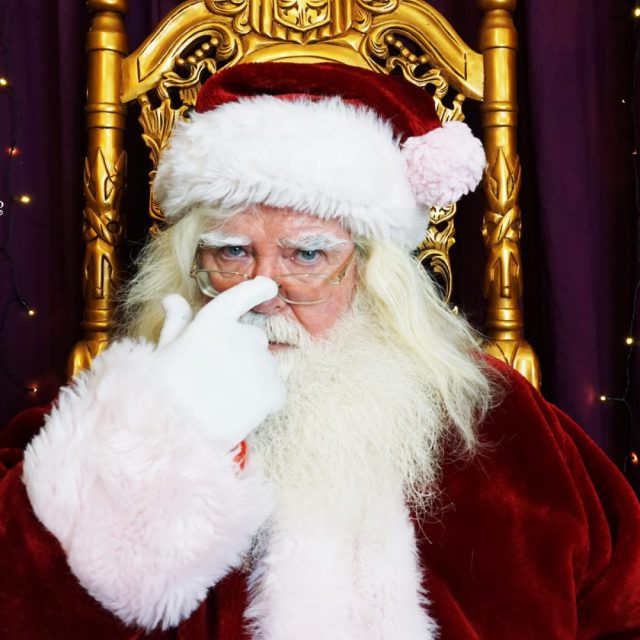
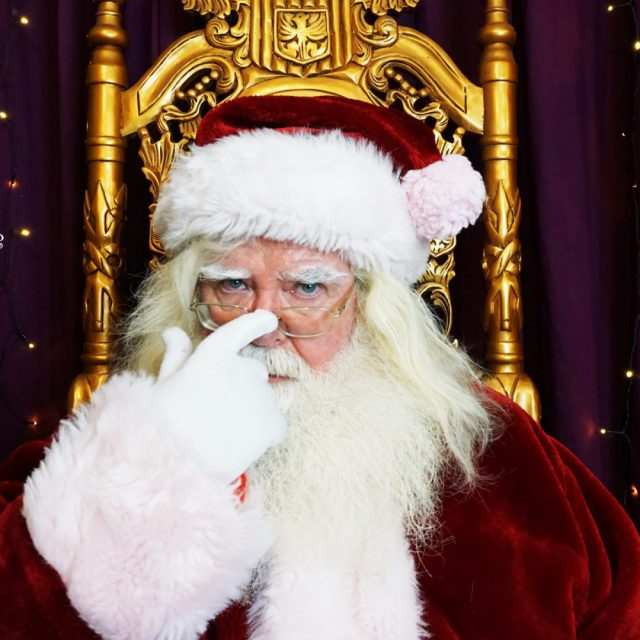
update

diff --git a/index.html b/index.html
@@ -47,7 +47,7 @@ img.emoji {
 <![endif]-->
 <script type='text/javascript' src='https://santasabhaile.github.io/SantaSaBhaileSite/wp-includes/js/jquery/jquery.js?ver=1.12.4-wp' id='jquery-core-js'></script>
 <link rel="https://api.w.org/" href="https://santasabhaile.github.io/SantaSaBhaileSite/wp-json/" /><link rel="alternate" type="application/json" href="https://santasabhaile.github.io/SantaSaBhaileSite/wp-json/wp/v2/pages/18" /><link rel="EditURI" type="application/rsd+xml" title="RSD" href="https://santasabhaile.github.io/SantaSaBhaileSite/xmlrpc.php?rsd" />
-<link rel="wlwmanifest" type="application/wlwmanifest+xml" href="https://santasabhaile.github.io/SantaSaBhaileSite/wp-includes/wlwmanifest.xml" />
+<link rel="wlwmanifest" type="application/wlwmanifest+xml" href="https://santasabhaile.github.io/SantaSaBhaileSite/wp-includes/wlwmanifest.xml" /> 
 <meta name="generator" content="WordPress 5.5.1" />
 <link rel="canonical" href="https://santasabhaile.github.io/SantaSaBhaileSite/" />
 <link rel='shortlink' href='https://santasabhaile.github.io/SantaSaBhaileSite/' />
@@ -87,34 +87,34 @@ background-color: #290e22;
 		<a class="skip-link screen-reader-text" href="#content">Skip to content</a>
 
 		<header id="masthead" class="site-header" role="banner">
-
+			
 <div class="header-media">
 	<div class="wrapper">
 					<div class="custom-header-media">
-				<div id="wp-custom-header" class="wp-custom-header"><img src="https://santasabhaile.github.io/SantaSaBhaileSite/wp-content/uploads/2020/11/cropped-coverphoto-ispcc-scaled-2.jpg" width="1920" height="1080" alt="Santa Sa Bhaile" srcset="https://santasabhaile.github.io/SantaSaBhaileSite/wp-content/uploads/2020/11/cropped-coverphoto-ispcc-scaled-2.jpg 1920w, https://santasabhaile.github.io/SantaSaBhaileSite/wp-content/uploads/2020/11/cropped-coverphoto-ispcc-scaled-2-300x169.jpg 300w, https://santasabhaile.github.io/SantaSaBhaileSite/wp-content/uploads/2020/11/cropped-coverphoto-ispcc-scaled-2-1024x576.jpg 1024w, https://santasabhaile.github.io/SantaSaBhaileSite/wp-content/uploads/2020/11/cropped-coverphoto-ispcc-scaled-2-768x432.jpg 768w, https://santasabhaile.github.io/SantaSaBhaileSite/wp-content/uploads/2020/11/cropped-coverphoto-ispcc-scaled-2-1536x864.jpg 1536w, https://santasabhaile.github.io/SantaSaBhaileSite/wp-content/uploads/2020/11/cropped-coverphoto-ispcc-scaled-2-990x557.jpg 990w" sizes="(max-width: 1920px) 100vw, 1920px" /></div>			</div>
+				<div id="wp-custom-header" class="wp-custom-header"><img src="https://santasabhaile.github.io/SantaSaBhaileSite/wp-content/uploads/2020/11/cropped-coverphoto-ispcc-scaled-1.jpg" width="1920" height="1080" alt="Santa Sa Bhaile" srcset="https://santasabhaile.github.io/SantaSaBhaileSite/wp-content/uploads/2020/11/cropped-coverphoto-ispcc-scaled-1.jpg 1920w, https://santasabhaile.github.io/SantaSaBhaileSite/wp-content/uploads/2020/11/cropped-coverphoto-ispcc-scaled-1-300x169.jpg 300w, https://santasabhaile.github.io/SantaSaBhaileSite/wp-content/uploads/2020/11/cropped-coverphoto-ispcc-scaled-1-1024x576.jpg 1024w, https://santasabhaile.github.io/SantaSaBhaileSite/wp-content/uploads/2020/11/cropped-coverphoto-ispcc-scaled-1-768x432.jpg 768w, https://santasabhaile.github.io/SantaSaBhaileSite/wp-content/uploads/2020/11/cropped-coverphoto-ispcc-scaled-1-1536x864.jpg 1536w, https://santasabhaile.github.io/SantaSaBhaileSite/wp-content/uploads/2020/11/cropped-coverphoto-ispcc-scaled-1-990x557.jpg 990w" sizes="(max-width: 1920px) 100vw, 1920px" /></div>			</div>
 
-
+			
 	<div class="custom-header-content sections header-media-section">
 				<h2 class="entry-title section-title">.</h2>
-
+		
 		<p class="site-header-text">		<span class="more-link"><a href="" target="_self" class="readmore"><span class="screen-reader-text">.</span></a></span></p>
 	</div>
 			</div><!-- .wrapper -->
 </div><!-- .header-media -->
 
-
+			
 <div id="header-content">
 	<div class="wrapper">
 		<div class="site-header-main">
 			<div class="site-branding">
-
+				
 				<div class="site-identity">
 											<p class="site-title"><a href="https://santasabhaile.github.io/SantaSaBhaileSite/" rel="home">Santa Sa Bhaile</a></p>
 									</div><!-- .site-identity -->
 
 			</div><!-- .site-branding -->
 
-
+			
 <button id="primary-menu-toggle" class="menu-primary-toggle menu-toggle" aria-controls="primary-menu" aria-expanded="false">
 	<svg class="icon icon-bars" aria-hidden="true" role="img"> <use href="#icon-bars" xlink:href="#icon-bars"></use> </svg><svg class="icon icon-close" aria-hidden="true" role="img"> <use href="#icon-close" xlink:href="#icon-close"></use> </svg><span class="menu-label-prefix">Primary </span><span class="menu-label">Menu</span></button>
 
@@ -122,13 +122,13 @@ background-color: #290e22;
 			<nav id="site-primary-navigation" class="main-navigation site-navigation default-page-menu" role="navigation" aria-label="Primary Menu">
 			<div class="primary-menu-container"><ul id="primary-page-menu" class="primary-menu"><li class="page_item page-item-18 current_page_item"><a href="https://santasabhaile.github.io/SantaSaBhaileSite/" aria-current="page">Home</a></li></ul></div>		</nav><!-- #site-primary-navigation.default-page-menu -->
 
-
+	
 	<div class="primary-social-search-wrapper">
 		<button id="search-toggle" class="menu-search-toggle menu-toggle"><svg class="icon icon-search" aria-hidden="true" role="img"> <use href="#icon-search" xlink:href="#icon-search"></use> </svg><svg class="icon icon-close" aria-hidden="true" role="img"> <use href="#icon-close" xlink:href="#icon-close"></use> </svg><span class="screen-reader-text">Search</span></button>
 
         <div id="search-social-container" class="displaynone">
         	<div class="search-container">
-
+            	
 
 <form role="search" method="get" class="search-form" action="https://santasabhaile.github.io/SantaSaBhaileSite/">
 	<label>
@@ -146,36 +146,36 @@ background-color: #290e22;
 	</div><!-- .wrapper -->
 </div><!-- #header-content -->
 
-
-
+			
+			
 		</header><!-- .site-header -->
 
+		
 
+		
 
+		
 
+		
 
+		
 
+		
 
-
-
-
-
-
-
-
+		
 		<div id="content" class="site-content">
 			<div class="wrapper">
 
 	<div id="primary" class="content-area">
 		<main id="main" class="site-main" role="main">
-
+			
 <article id="post-18" class="post-18 page type-page status-publish hentry">
 	<header class="entry-header">
 		<h1 class="entry-title">Home</h1>	</header><!-- .entry-header -->
 
-
+	
 	<div class="entry-content">
-
+		
 <p class="has-text-align-center">2020 has been a very strange year!<br><br>Luckily Santa, Mrs Claus and all the Christmas Elves have come up with a clever plan. You may not be able to visit Santa this year, but Santa will visit you!<br><br>Santa Sa Bhaile is an opportunity to receive a personalised message from Santa himself.<br>Simply apply online via our application form.</p>
 
 
@@ -186,7 +186,7 @@ background-color: #290e22;
 
 
 
-<p class="has-text-align-center"><br>Christmas 2020 will be particularly difficult for children in need, that is why we are proud sponsors of ISPCC</p>
+<p class="has-text-align-center"><br>Christmas 2020 will be particularly difficult for children in need, that is why we are proud sponsors of ISPCC.</p>
 
 
 
@@ -195,6 +195,10 @@ background-color: #290e22;
 
 
 <figure class="wp-block-video"><video controls src="https://santasabhaile.github.io/SantaSaBhaileSite/wp-content/uploads/2020/10/Santa-claus-dancing-on-green-screen-during-christmas-4k.-Seamless-loop-animation..mp4"></video></figure>
+
+
+
+<div style="height:50px" aria-hidden="true" class="wp-block-spacer"></div>
 
 
 
@@ -213,9 +217,13 @@ background-color: #290e22;
 
 
 <div class="wp-block-image"><figure class="aligncenter size-medium"><img loading="lazy" width="300" height="152" src="https://santasabhaile.github.io/SantaSaBhaileSite/wp-content/uploads/2020/11/ISPCC-childline-logo_RGB-300x152.png" alt="" class="wp-image-136" srcset="https://santasabhaile.github.io/SantaSaBhaileSite/wp-content/uploads/2020/11/ISPCC-childline-logo_RGB-300x152.png 300w, https://santasabhaile.github.io/SantaSaBhaileSite/wp-content/uploads/2020/11/ISPCC-childline-logo_RGB-1024x520.png 1024w, https://santasabhaile.github.io/SantaSaBhaileSite/wp-content/uploads/2020/11/ISPCC-childline-logo_RGB-768x390.png 768w, https://santasabhaile.github.io/SantaSaBhaileSite/wp-content/uploads/2020/11/ISPCC-childline-logo_RGB-1536x780.png 1536w, https://santasabhaile.github.io/SantaSaBhaileSite/wp-content/uploads/2020/11/ISPCC-childline-logo_RGB-2048x1040.png 2048w" sizes="(max-width: 300px) 100vw, 300px" /></figure></div>
+
+
+
+<div style="height:50px" aria-hidden="true" class="wp-block-spacer"></div>
 	</div><!-- .entry-content -->
 
-
+	
 </article><!-- #post-## -->
 
 		</main><!-- .site-main -->
@@ -225,16 +233,16 @@ background-color: #290e22;
 			</div><!-- .wrapper -->
 		</div><!-- .site-content -->
 
+		
 
-
-
+		
 
 		<footer id="colophon" class="site-footer" role="contentinfo">
 
-
+			
 
 			<div id="site-generator">
-
+				
 
 	<div class="site-info">
 		<div class="wrapper">
